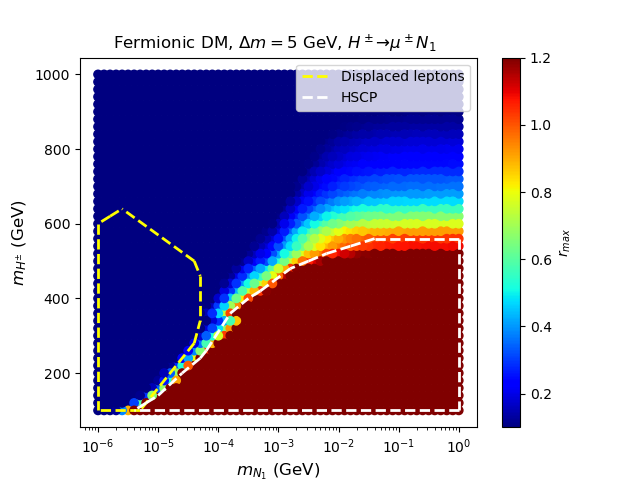
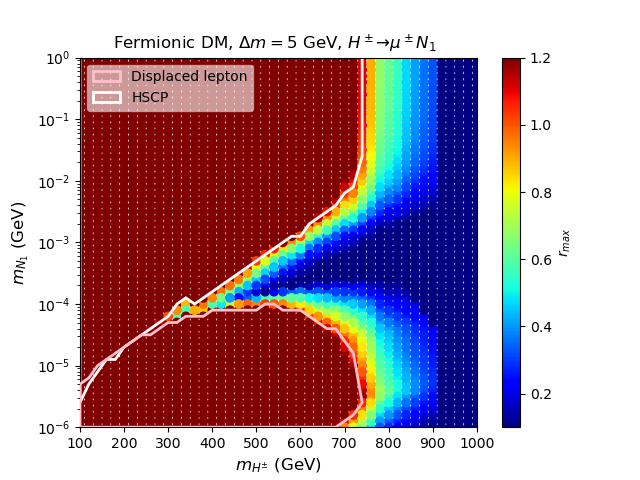
fermionic DM-plots

diff --git a/IDM-Scoto/fermionicDM_scan/plotter.py b/IDM-Scoto/fermionicDM_scan/plotter.py
@@ -2,9 +2,9 @@
 import matplotlib.pyplot as plt
 import pandas as pd
 from scipy.spatial import ConvexHull, convex_hull_plot_2d
-
-
-
+import alphashape
+from matplotlib.patches import Patch
+from descartes import PolygonPatch
 
 
 def openframe(path_to_frame):
@@ -174,8 +174,8 @@ def plotCurvesTopo(frame,title,path_to_plot):
    
     
     ####Displaced lepton
-    frame_analysis=frame_excluded.loc[frame_excluded['Tx']=='TSelSelDisp']
-    frame_analysis2d=frame_analysis[['m(N1)','m(H+)']]
+    frame_displaced=frame.loc[frame['Disp']>1]
+    frame_analysis2d=frame_displaced[['m(N1)','m(H+)']]
     frame_analysis2d=frame_analysis2d.to_numpy()
     hull = ConvexHull(frame_analysis2d,qhull_options='QG4')
     k=0
@@ -190,8 +190,8 @@ def plotCurvesTopo(frame,title,path_to_plot):
        
     plt.xscale('log')
         
-    
-    frame_analysis=frame_excluded.loc[frame_excluded['Tx']!='TSelSelDisp']
+    ##HSCP
+    frame_analysis=frame_excluded.loc[frame_excluded['Tx']!='TSmuSmuDisp']
     frame_analysis2d=frame_analysis[['m(N1)','m(H+)']]
     frame_analysis2d=frame_analysis2d.to_numpy()
     hull = ConvexHull(frame_analysis2d,qhull_options='QG4')
@@ -221,20 +221,70 @@ def plotCurvesTopo(frame,title,path_to_plot):
         
     
 
+def plotCurvesTopo2(frame,frameHSCP,title,path_to_plot):
+
+
+    fig, ax = plt.subplots()
+    #ax.scatter(frame['m(N1)'],frame['m(H+)'],c=frame['r_max'],alpha=1,cmap='jet',vmax=1.2,vmin=.1)
+    #ax.set_xscale('log')
+   # plt.colorbar()
     
+    ax.set_xlim(left=min(frame['m(H+)']),right=max(frame['m(H+)']))
+    ax.set_ylim(bottom=min(frame['m(N1)']),top=max(frame['m(N1)']))
+    
+    plt.scatter(frame['m(H+)'],frame['m(N1)'],c=frame['r_max'],alpha=1,cmap='jet',vmax=1.2,vmin=.1)
+    plt.colorbar(label='$r_{max}$')
+    
+    frame_displaced=frameHSCP.loc[frameHSCP['Disp']>1]
+    frame_analysis2d=frame_displaced[['m(H+)','m(N1)']]
+    frame_analysis2d=frame_analysis2d.to_numpy()
+    print(frame_analysis2d)
+    alpha_shape = alphashape.alphashape(frame_analysis2d, .05)
+    print(alpha_shape)
+    ax.add_patch(PolygonPatch(alpha_shape, alpha=1,ec='pink',fill=False,zorder=20,lw=2,label='Displaced lepton'))
+    
+    
+    
+    frame_excluded=frameHSCP.loc[frameHSCP['SModelS_status']=='Excluded']
+    frame_analysis=frame_excluded.loc[frame_excluded['Tx']!='TSmuSmuDisp']
+    frame_analysis2d=frame_analysis[['m(H+)','m(N1)']]
+    frame_analysis2d=frame_analysis2d.to_numpy()
+    print(frame_analysis2d)
+    alpha_shape = alphashape.alphashape(frame_analysis2d, .05)
+    print(alpha_shape)
+    ax.add_patch(PolygonPatch(alpha_shape, alpha=1,ec='white',fill=False,lw=2,label='HSCP'))
+    plt.legend(loc='upper left',framealpha=.6,labelcolor='black')
+    #print(alpha_shape)
+   # Patch(alpha_shape,'.',c='yellow')
+    plt.yscale('log')
+    plt.ylabel('$ m_{N_{1}}$ (GeV)',fontsize=12)
+    plt.xlabel('$ m_{H^{\\pm}}$ (GeV)',fontsize=12)
+    plt.title(title)
+    plt.savefig(path_to_plot)
+    plt.close()
+   
+    return
+ 
+    
+  
+    
+
    
 
 
     
-#path_to_frame='data_frames/frame_delta5_electrons.txt'
-path_to_frame='/Users/humberto/Documents/work/Scoto-IDM/smodels-dev/smodels/frame_delta5_muons_txweight_THSCPM1b.txt'
-title='Fermionic DM, $\\Delta m=5$ GeV, $ H^\pm\\to \mu^\pm N_1$  '
+path_to_frame='/Users/humberto/Documents/work/Scoto-IDM/smodels-dev/smodels/frame_delta5_muons_compression.txt'
+#path_to_frame='/Users/humberto/Documents/work/Scoto-IDM/smodels-dev/smodels/frame_delta5_muons_compression.txt'
+path_to_onlyHSCPframe='/Users/humberto/Documents/work/Scoto-IDM/smodels-dev/smodels/frame_delta5_muons_compression_onlyHSCP.txt'
+title='Fermionic DM, $\\Delta m=5$ GeV, $ H^\pm\\to \\mu^\pm N_1$  '
 
-path_to_plot='static_plots/plot_analysis_larger_delta5_electrons_s.png'
-path_to_plot_topo='static_plots/plot_topo_larger_delta5_muons_THSCP1b_r08.png'
-path_to_plot_curves='static_plots/plot_curves_delta5_electrons.png'
+path_to_plot='static_plots/plot_analysis_larger_delta5_electrons_compression.png'
+path_to_plot_topo='static_plots/plot_topo_larger_delta5_muons_compression.png'
+path_to_plot_curves='plots/plot_curves_intersections_delta5_muons.png'
 frame=openframe(path_to_frame)
+HSCPframe=openframe(path_to_onlyHSCPframe)
 #plotterAnalyses(frame,title,path_to_plot)
 #plotterTopo(frame,title,path_to_plot_topo)
 #plotCurvesTopo(frame,title,path_to_plot_curves)
-plotterTopoHSCPind(frame,title,path_to_plot_topo)
+plotCurvesTopo2(frame,HSCPframe,title,path_to_plot_curves)
+#plotterTopoHSCPind(frame,title,path_to_plot_topo)
